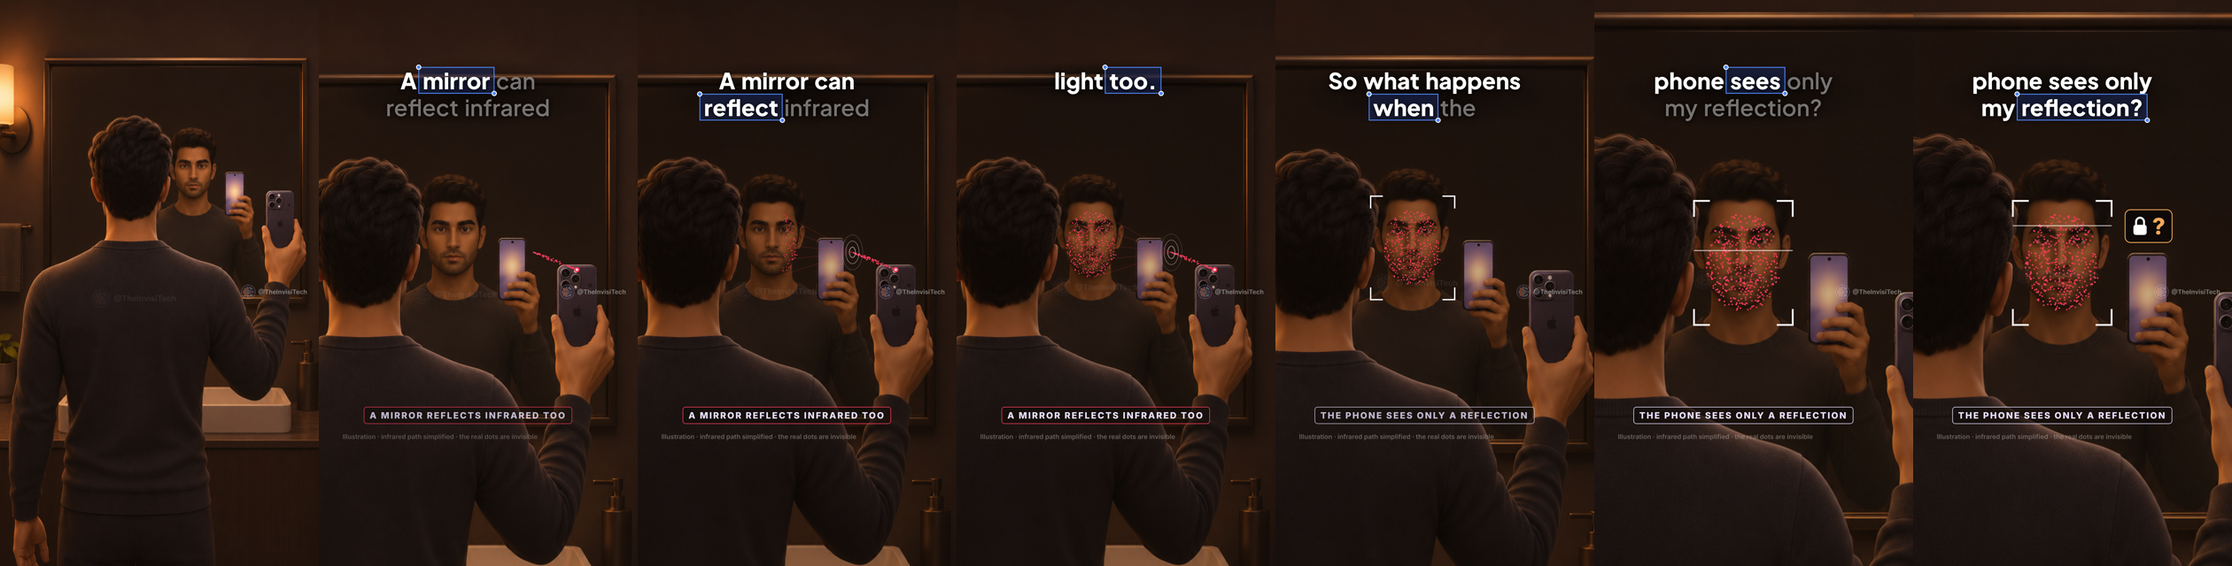
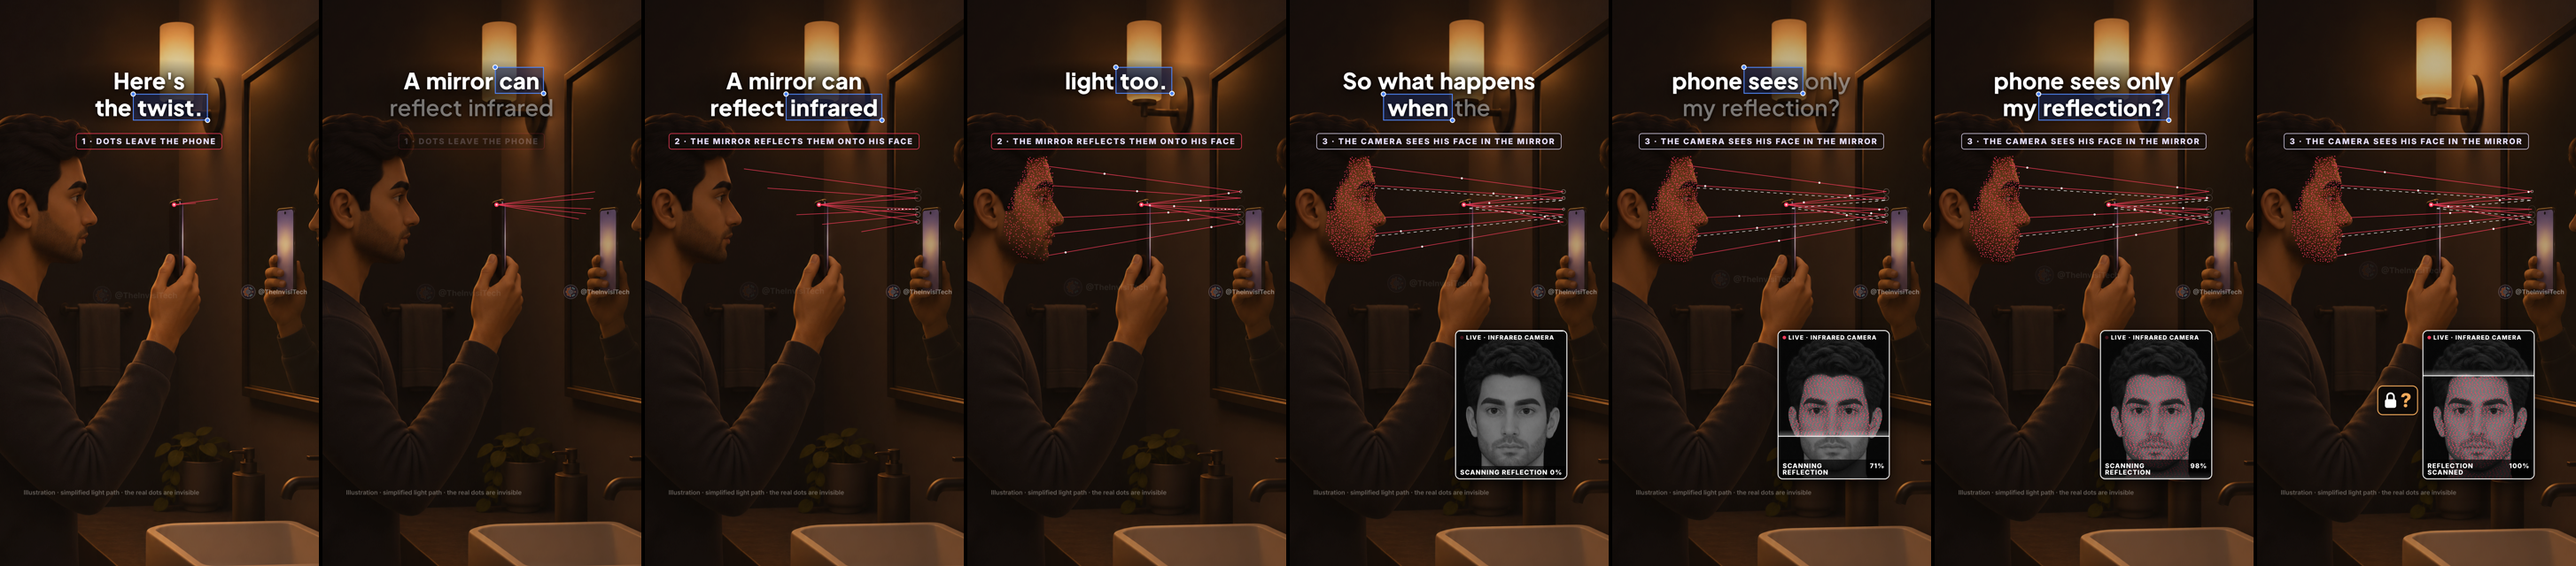
Mirror Face ID Short: mirror scene shows the reflecting rays and a live scan (stills only)
Side view: rays leave the dot projector, reflect off the glass at equal angles and land on his
face; the return path runs back to the camera. A live infrared-camera panel shows his mirrored
face being scanned line by line with a percentage, then a closed padlock and question mark.

Claude-Session: https://claude.ai/code/session_01GXcKc5WnFrVWBsHLe8YpAy

diff --git a/face-id/mirror-short/src/scenes/Mirror.tsx b/face-id/mirror-short/src/scenes/Mirror.tsx
@@ -1,64 +1,91 @@
-import { AbsoluteFill, Img, interpolate, staticFile, useCurrentFrame } from 'remotion';
-import { C, FONT, Label, clamp, ramp } from '../theme';
+import { AbsoluteFill, Img, staticFile, useCurrentFrame } from 'remotion';
+import front from '../front.json';
+import { C, FONT, Label, ramp } from '../theme';
 
-// Scene 5 (8 s, 240 frames): "Here's the twist. A mirror can reflect infrared light too. So what happens
-// when the phone sees only my reflection?"  Seen from behind him (public/bathroom_rear.png, 941 x 1672):
-//   0– 35  cut to the rear view and push in toward the mirror
-//  40–125  red dots leave his phone, hit the glass (ripples) and light up his reflected face
-// 130–240  a scan frame locks onto the reflection; closed padlock with a question mark. No result is shown.
-const K = 1080 / 941;
-const PHONE = [822, 548], GLASS = [742, 516], FACE = { x: 595, y: 502, rx: 47, ry: 62 };
-const io = (x: number) => x * x * (3 - 2 * x);
-let seed = 23; const rnd = () => ((seed = (seed * 1664525 + 1013904223) % 4294967296) / 4294967296);
-const DOTS: number[][] = [];
-while (DOTS.length < 430) { const x = (rnd() * 2 - 1), y = (rnd() * 2 - 1); if (x * x + y * y < 1) DOTS.push([FACE.x + x * FACE.rx, FACE.y + y * FACE.ry, rnd()]); }
-const STREAM = Array.from({ length: 70 }, () => [rnd(), (rnd() - 0.5) * 14, rnd()]);
+// Scene 5 (8 s, 240 frames): how the infrared light reaches his face by way of the mirror, and what the
+// camera sees. Side view (public/bathroom_side.png, 941 x 1672) + a live "infrared camera" panel.
+//  30– 80  1 · rays leave the phone's dot projector and travel to the glass
+//  62–112  2 · each ray reflects off the mirror (angle in = angle out) and lands on his face; dots appear
+// 126–240  3 · the light returns the same way: the camera sees his face in the mirror. The live panel
+//          shows that (mirrored) infrared view being scanned line by line, with a running percentage.
+// The padlock stays closed with a question mark: no result is shown.
+const K = 1080 / 941, MX = 735;                                    // MX: x of the mirror surface the rays hit
+const P = [516, 604];                                              // dot projector, top of the phone (faces the mirror)
+const TARGETS = [[300, 518], [320, 562], [341, 632], [322, 668], [311, 716]];   // forehead, brow, nose, lips, chin
+// law of reflection for a vertical mirror: the hit point where angle in = angle out
+const hit = (f: number[]) => [MX, (P[1] * (MX - f[0]) + f[1] * (MX - P[0])) / ((MX - f[0]) + (MX - P[0]))];
+const RAYS = TARGETS.map((f) => ({ f, m: hit(f) }));
+const FACE_POLY = [[267, 500], [307, 498], [320, 530], [323, 560], [322, 600], [345, 637], [318, 652], [326, 673],
+  [312, 718], [290, 734], [240, 720], [212, 662], [218, 617], [240, 560], [262, 517]];
+const inPoly = (x: number, y: number) => { let c = false;
+  for (let i = 0, j = FACE_POLY.length - 1; i < FACE_POLY.length; j = i++) { const [xi, yi] = FACE_POLY[i], [xj, yj] = FACE_POLY[j];
+    if ((yi > y) !== (yj > y) && x < ((xj - xi) * (y - yi)) / (yj - yi) + xi) c = !c; } return c; };
+let seed = 31; const rnd = () => ((seed = (seed * 1664525 + 1013904223) % 4294967296) / 4294967296);
+const FACE_DOTS: number[][] = [];
+for (let y = 498; y < 736; y += 5) for (let x = 210; x < 348; x += 5) { const px = x + (rnd() - 0.5) * 4, py = y + (rnd() - 0.5) * 4; if (inPoly(px, py)) FACE_DOTS.push([px, py, rnd()]); }
+// live panel: the straight-on infrared still, flipped left-right (it is a mirror image)
+const PAN = { x: 560, y: 1120, w: 380, h: 506 }, CROP = { x: 106, y: 200, w: 540, h: 720 }, PK = PAN.w / CROP.w;
+const PDOTS = (front.dots as number[][]).filter((_, i) => i % 3 === 0).map((d) => [PAN.w - (d[0] - CROP.x) * PK, (d[1] - CROP.y) * PK, d[3]]).filter((d) => d[1] > 0 && d[1] < PAN.h);
+const len = (a: number[], b: number[]) => Math.hypot(b[0] - a[0], b[1] - a[1]);
+const STEPS = [{ at: 30, to: 62, text: '1 · DOTS LEAVE THE PHONE' }, { at: 62, to: 126, text: '2 · THE MIRROR REFLECTS THEM ONTO HIS FACE' }, { at: 126, to: 999, text: '3 · THE CAMERA SEES HIS FACE IN THE MIRROR' }];
 
 export const Mirror: React.FC = () => {
   const l = useCurrentFrame();
-  const a = ramp(l, 0, 35, 0, 1, io), b = ramp(l, 130, 165, 0, 1, io);
-  const s = 1 + 0.6 * a + 0.75 * b;
-  const fx = interpolate(a, [0, 1], [470.5, 640], clamp) + (608 - 640) * b, fy = interpolate(a, [0, 1], [784, 540], clamp) + (505 - 540) * b;
-  const tx = 540 - fx * K * s, ty = 900 - fy * K * s;
-  const scr = (x: number, y: number) => [x * K * s + tx, y * K * s + ty];
-  const fire = ramp(l, 40, 46) * (1 - ramp(l, 118, 128));
-  const appear = (d: number[]) => 66 + ((FACE.x + FACE.rx - d[0]) / (2 * FACE.rx)) * 28 + d[2] * 6;   // near side of the face first
-  const lock = ramp(l, 134, 146, 0, 1, io);
-  const B = { x0: FACE.x - 62, x1: FACE.x + 62, y0: FACE.y - 78, y1: FACE.y + 78 }, g = 26 * (1 - lock);     // brackets close in
-  const corner = (x: number, y: number, dx: number, dy: number) => `M ${x + dx * 20} ${y} H ${x} V ${y + dy * 20}`;
-  const [qx, qy] = scr(B.x1 + 16, B.y0 + 10);
+  const s = 1 + 0.32 * ramp(l, 0, 30, 0, 1, (x) => x * x * (3 - 2 * x)) + 0.04 * (l / 240);   // push in on the phone, mirror and face
+  const scan = ramp(l, 140, 212), pct = Math.round(scan * 100), panel = ramp(l, 128, 136);
+  const sweepY = scan < 1 ? scan * PAN.h : ((l - 212) % 60) / 60 * PAN.h;
   return (
     <AbsoluteFill style={{ backgroundColor: C.bg, overflow: 'hidden' }}>
-      <div style={{ position: 'absolute', left: 0, top: 0, width: 1080, height: 1672 * K, transformOrigin: '0 0', transform: `translate(${tx}px, ${ty}px) scale(${s})` }}>
-        <Img src={staticFile('bathroom_rear.png')} style={{ position: 'absolute', inset: 0, width: 1080, height: 1672 * K, filter: `brightness(${1 - 0.22 * ramp(l, 40, 70)})` }} />
-        <svg viewBox="0 0 941 1672" style={{ position: 'absolute', inset: 0, width: 1080, height: 1672 * K }}>
-          {/* dots travelling from the phone to the glass */}
-          <g opacity={fire}>
-            <line x1={PHONE[0]} y1={PHONE[1]} x2={GLASS[0]} y2={GLASS[1]} stroke={C.ir} strokeWidth={0.8} opacity={0.5} />
-            {STREAM.map(([p, off, c], i) => { const u = (p + l / 16) % 1; return <circle key={i} cx={PHONE[0] + (GLASS[0] - PHONE[0]) * u} cy={PHONE[1] + (GLASS[1] - PHONE[1]) * u + off * u * (1 - u) * 2} r={0.9 + 0.5 * c} fill={C.ir} />; })}
-            {/* ripples where the light meets the mirror */}
-            {[0, 1, 2].map((k) => { const u = ((l - 48) / 26 + k / 3) % 1; return l > 48 ? <ellipse key={k} cx={GLASS[0]} cy={GLASS[1]} rx={4 + 20 * u} ry={7 + 34 * u} fill="none" stroke={C.irCore} strokeWidth={1.1} opacity={0.75 * (1 - u)} /> : null; })}
-            {/* reflected fan from the glass to his reflected face */}
-            {[-0.9, -0.45, 0, 0.45, 0.9].map((k) => <line key={k} x1={GLASS[0]} y1={GLASS[1]} x2={FACE.x + 20} y2={FACE.y + k * FACE.ry} stroke={C.ir} strokeWidth={0.6} opacity={0.3 * ramp(l, 62, 70)} />)}
-            <circle cx={PHONE[0]} cy={PHONE[1]} r={5} fill={C.ir} opacity={0.9} /><circle cx={PHONE[0]} cy={PHONE[1]} r={2} fill="#fff" />
-          </g>
-          {/* the dot pattern, seen on his reflected face */}
-          {DOTS.map((d, i) => { const o = ramp(l, appear(d), appear(d) + 3); return o > 0 ? <circle key={i} cx={d[0]} cy={d[1]} r={1.05} fill={C.ir} opacity={o * (0.7 + 0.3 * d[2])} /> : null; })}
-          {/* scan frame on the reflection */}
-          <g opacity={ramp(l, 132, 138)} stroke="#fff" strokeWidth={2.2} fill="none">
-            <path d={corner(B.x0 - g, B.y0 - g, 1, 1)} /><path d={corner(B.x1 + g, B.y0 - g, -1, 1)} /><path d={corner(B.x0 - g, B.y1 + g, 1, -1)} /><path d={corner(B.x1 + g, B.y1 + g, -1, -1)} />
-            <line x1={B.x0} x2={B.x1} y1={B.y0 + ((l - 146) % 50) / 50 * (B.y1 - B.y0)} y2={B.y0 + ((l - 146) % 50) / 50 * (B.y1 - B.y0)} strokeWidth={1.2} opacity={l > 146 ? 0.7 : 0} />
-          </g>
+      <div style={{ position: 'absolute', inset: 0, transformOrigin: '600px 690px', transform: `scale(${s})` }}>
+        <Img src={staticFile('bathroom_side.png')} style={{ position: 'absolute', left: 0, top: 0, width: 1080, height: 1672 * K, filter: `brightness(${1 - 0.25 * ramp(l, 30, 60)})` }} />
+        <svg viewBox="0 0 941 1672" style={{ position: 'absolute', left: 0, top: 0, width: 1080, height: 1672 * K }}>
+          {RAYS.map(({ f, m }, k) => {
+            const a = len(P, m), b = len(m, f), t0 = 32 + k * 3, out = ramp(l, t0, t0 + 30) * a, back = ramp(l, t0 + 30, t0 + 60) * b;
+            const u = ((l - t0) / 34) % 1, on = l > t0 + 60;      // pulses keep travelling once the path is drawn
+            const pulse = (v: number) => (v * (a + b) < a ? [P[0] + (m[0] - P[0]) * (v * (a + b)) / a, P[1] + (m[1] - P[1]) * (v * (a + b)) / a] : [m[0] + (f[0] - m[0]) * (v * (a + b) - a) / b, m[1] + (f[1] - m[1]) * (v * (a + b) - a) / b]);
+            return (
+              <g key={k}>
+                <line x1={P[0]} y1={P[1]} x2={m[0]} y2={m[1]} stroke={C.ir} strokeWidth={1.3} strokeDasharray={`${out} ${a}`} opacity={0.85} />
+                <line x1={m[0]} y1={m[1]} x2={f[0]} y2={f[1]} stroke={C.ir} strokeWidth={1.3} strokeDasharray={`${back} ${b}`} opacity={0.85} />
+                {l > t0 + 28 && <circle cx={m[0]} cy={m[1]} r={2 + 7 * (((l - t0 - 28) / 24) % 1)} fill="none" stroke={C.irCore} strokeWidth={1} opacity={0.8 * (1 - (((l - t0 - 28) / 24) % 1))} />}
+                {on && [0, 0.5].map((o) => { const [x, y] = pulse((u + o) % 1); return <circle key={o} cx={x} cy={y} r={2.2} fill={C.irCore} />; })}
+              </g>
+            );
+          })}
+          {/* the reflection rule, shown on the middle ray: dashed normal + equal angles */}
+          {(() => { const { m, f } = RAYS[2], o = ramp(l, 70, 76) * (1 - ramp(l, 122, 128)), r = 34;
+            const ang = (q: number[]) => Math.atan2(q[1] - m[1], q[0] - m[0]), a1 = ang(P), a2 = ang(f);
+            const arc = (from: number, to: number) => `M ${m[0] + r * Math.cos(from)} ${m[1] + r * Math.sin(from)} A ${r} ${r} 0 0 ${to > from ? 1 : 0} ${m[0] + r * Math.cos(to)} ${m[1] + r * Math.sin(to)}`;
+            return <g opacity={o} stroke="#fff" fill="none"><line x1={m[0]} y1={m[1]} x2={m[0] - 70} y2={m[1]} strokeWidth={1.2} strokeDasharray="4 4" /><path d={arc(Math.PI, a1)} strokeWidth={1.6} /><path d={arc(Math.PI, a2)} strokeWidth={1.6} /></g>; })()}
+          {/* the dots landing on his real face */}
+          {FACE_DOTS.map((d, i) => { const t = 92 + ((d[1] - 498) / 238) * 14 + d[2] * 14, o = ramp(l, t, t + 3); return o > 0 ? <circle key={i} cx={d[0]} cy={d[1]} r={1.15} fill={C.ir} opacity={o * (0.7 + 0.3 * d[2])} /> : null; })}
+          {/* return trip: what the camera receives (dashed, moving toward the phone) */}
+          {l >= 126 && [RAYS[1], RAYS[3]].map(({ f, m }, k) => <path key={k} d={`M ${f[0]} ${f[1] + 5} L ${m[0]} ${m[1] + 5} L ${P[0] + 6} ${P[1] + 8}`} fill="none" stroke="#fff" strokeWidth={1.4} strokeDasharray="7 7" strokeDashoffset={-l * 1.4} opacity={0.8 * ramp(l, 126, 132)} />)}
+          <circle cx={P[0]} cy={P[1]} r={5} fill={C.ir} opacity={ramp(l, 30, 34)} /><circle cx={P[0]} cy={P[1]} r={2} fill="#fff" opacity={ramp(l, 30, 34)} />
         </svg>
       </div>
-      {/* closed padlock + question mark beside the frame */}
-      <div style={{ position: 'absolute', left: Math.min(qx, 830), top: qy, opacity: ramp(l, 168, 174), transform: `scale(${1 + 0.05 * Math.sin(l / 5)})`, display: 'flex', alignItems: 'center', gap: 14, padding: '16px 22px', borderRadius: 20, background: 'rgba(10,8,7,.8)', border: `3px solid ${C.amber}` }}>
-        <svg width={56} height={70} viewBox="-36 -46 72 92"><path d="M -18 -6 v -14 a 18 18 0 0 1 36 0 v 14" stroke="#fff" strokeWidth={9} strokeLinecap="round" fill="none" /><rect x={-30} y={-6} width={60} height={46} rx={11} fill="#fff" /></svg>
-        <span style={{ font: `800 78px/1 ${FONT}`, color: C.amber }}>?</span>
+      {STEPS.map((st) => <Label key={st.text} text={st.text} x={505} y={452} o={ramp(l, st.at, st.at + 4) * (1 - ramp(l, st.to - 4, st.to))} size={27} align="center" color={st.at === 126 ? C.label : C.ir} />)}
+      {/* live infrared camera panel */}
+      <div style={{ position: 'absolute', left: PAN.x, top: PAN.y + (1 - panel) * 40, width: PAN.w, height: PAN.h, opacity: panel, borderRadius: 18, overflow: 'hidden', border: '3px solid #fff', background: '#000', boxShadow: '0 16px 50px rgba(0,0,0,.7)' }}>
+        <Img src={staticFile('face_front_ir.png')} style={{ position: 'absolute', left: -(752 - CROP.x - CROP.w) * PK, top: -CROP.y * PK, width: 752 * PK, height: 1344 * PK, transform: 'scaleX(-1)', filter: 'brightness(0.62)' }} />
+        <svg width={PAN.w} height={PAN.h} style={{ position: 'absolute', inset: 0 }}>
+          {PDOTS.map((d, i) => (d[1] <= (scan < 1 ? sweepY : PAN.h) ? <circle key={i} cx={d[0]} cy={d[1]} r={1.7} fill={C.ir} opacity={0.75 + 0.25 * d[2]} /> : null))}
+          <rect x={0} y={sweepY - 22} width={PAN.w} height={22} fill="url(#sw)" /><line x1={0} x2={PAN.w} y1={sweepY} y2={sweepY} stroke="#fff" strokeWidth={3} />
+          <defs><linearGradient id="sw" x1="0" y1="0" x2="0" y2="1"><stop offset="0" stopColor="#fff" stopOpacity="0" /><stop offset="1" stopColor="#fff" stopOpacity="0.35" /></linearGradient></defs>
+        </svg>
+        <div style={{ position: 'absolute', left: 14, top: 12, display: 'flex', alignItems: 'center', gap: 8, font: `800 20px/1 ${FONT}`, letterSpacing: '0.1em', color: '#fff' }}>
+          <span style={{ width: 12, height: 12, borderRadius: 6, background: C.ir, opacity: Math.floor(l / 10) % 2 ? 1 : 0.25 }} />LIVE · INFRARED CAMERA
+        </div>
+        <div style={{ position: 'absolute', left: 0, right: 0, bottom: 0, padding: '10px 14px', background: 'rgba(0,0,0,.7)', display: 'flex', justifyContent: 'space-between', font: `800 22px/1 ${FONT}`, letterSpacing: '0.08em', color: '#fff' }}>
+          <span>{scan < 1 ? 'SCANNING REFLECTION' : 'REFLECTION SCANNED'}</span><span>{pct}%</span>
+        </div>
       </div>
-      <Label text="A MIRROR REFLECTS INFRARED TOO" x={505} y={1380} o={ramp(l, 46, 50) * (1 - ramp(l, 124, 130))} size={30} align="center" color={C.ir} />
-      <Label text="THE PHONE SEES ONLY A REFLECTION" x={505} y={1380} o={ramp(l, 140, 144)} size={30} align="center" color={C.label} />
-      <div style={{ position: 'absolute', left: 80, top: 1470, opacity: 0.5 * ramp(l, 46, 50), font: `600 22px/1 ${FONT}`, color: '#b5ada5' }}>Illustration · infrared path simplified · the real dots are invisible</div>
+      {/* closed padlock + question mark: the result is saved for the real test */}
+      <div style={{ position: 'absolute', left: PAN.x - 150, top: PAN.y + 190, opacity: ramp(l, 214, 220), transform: `scale(${1 + 0.05 * Math.sin(l / 5)})`, display: 'flex', alignItems: 'center', gap: 10, padding: '14px 18px', borderRadius: 18, background: 'rgba(10,8,7,.85)', border: `3px solid ${C.amber}` }}>
+        <svg width={44} height={56} viewBox="-36 -46 72 92"><path d="M -18 -6 v -14 a 18 18 0 0 1 36 0 v 14" stroke="#fff" strokeWidth={9} strokeLinecap="round" fill="none" /><rect x={-30} y={-6} width={60} height={46} rx={11} fill="#fff" /></svg>
+        <span style={{ font: `800 62px/1 ${FONT}`, color: C.amber }}>?</span>
+      </div>
+      <div style={{ position: 'absolute', left: 80, top: 1660, opacity: 0.5 * ramp(l, 30, 34), font: `600 21px/1 ${FONT}`, color: '#b5ada5' }}>Illustration · simplified light path · the real dots are invisible</div>
     </AbsoluteFill>
   );
 };
